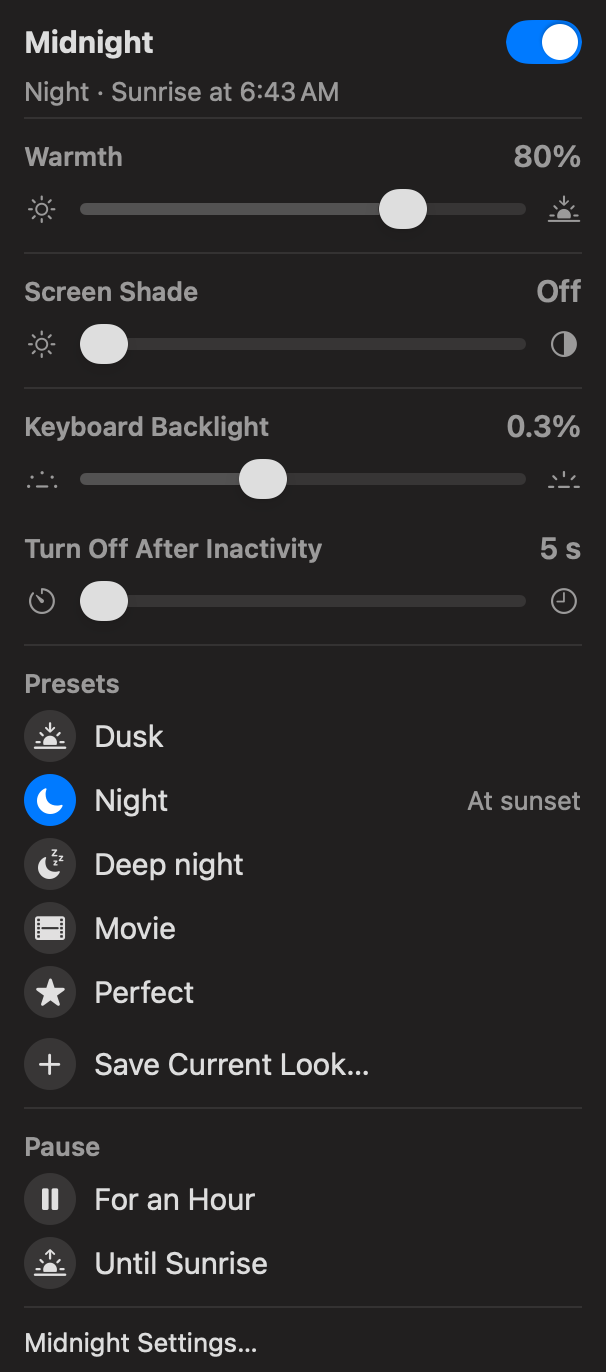
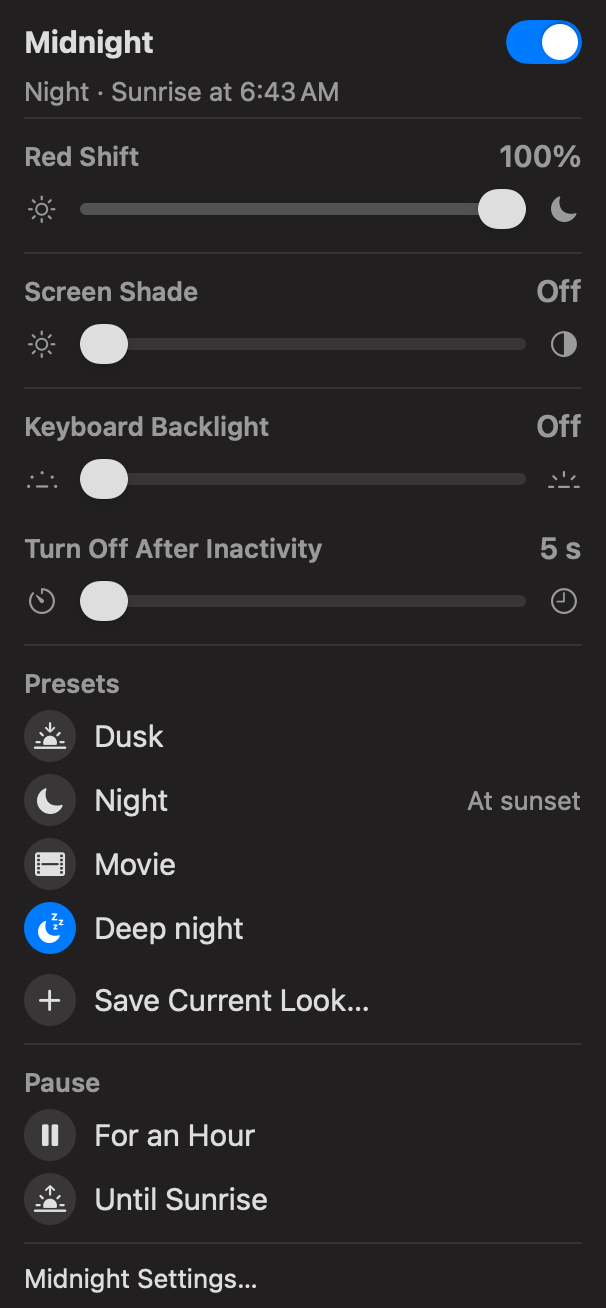
Red Shift; copy for the longevity crowd; new hero and panel renders

diff --git a/docs/index.html b/docs/index.html
@@ -4,9 +4,9 @@
 <meta charset="utf-8">
 <meta name="viewport" content="width=device-width, initial-scale=1">
 <title>Midnight — Zero blue light after dark, for Mac</title>
-<meta name="description" content="Midnight removes blue light from your Mac at sunset and restores it at sunrise. Zero blue at 60%, a keyboard backlight below the system floor, and it learns your nights. Free and open source.">
+<meta name="description" content="Blue light after sunset is the cheapest sleep loss you are still paying for. Midnight drives your Mac to zero blue at sunset and hands the day back at sunrise, in a panel indistinguishable from Control Center. Free, open source, on-device.">
 <meta property="og:title" content="Midnight — Zero blue. Sleep better.">
-<meta property="og:description" content="Take blue light out of your Mac at sunset. Not warmer. Gone. Free, open source, nothing leaves your Mac.">
+<meta property="og:description" content="Zero blue light after sunset. Deep reds in a panel that looks like Apple made it. Free, open source, on-device. The cheapest input in your sleep protocol.">
 <meta property="og:type" content="website">
 <meta property="og:url" content="https://ervinyoung.github.io/midnight/">
 <meta property="og:image" content="https://ervinyoung.github.io/midnight/img/panel.png">
@@ -133,12 +133,12 @@
 <header class="hero" id="product">
   <div class="wrap">
     <h1>Zero blue.<br><span class="grad">Sleep better.</span></h1>
-    <p class="sub">Midnight removes every bit of blue light from your Mac at sunset and gives it back at sunrise. Deep, true reds, in a panel that looks like Apple made it. Free.</p>
+    <p class="sub">Blue light after sunset is the cheapest sleep loss you are still paying for. Midnight drives your Mac to zero blue at sunset, holds deep, true reds through the night, and hands the day back at sunrise. In a panel that looks like Apple made it. Free.</p>
     <div class="ctas">
       <a class="btn white" href="https://github.com/ervinyoung/midnight#install"><svg viewBox="0 0 17 20" fill="currentColor"><path d="M14.1 10.6c0-2.7 2.2-3.9 2.3-4-1.3-1.8-3.2-2.1-3.9-2.1-1.7-.2-3.2 1-4.1 1-.8 0-2.1-1-3.5-.9C3.1 4.6 1.4 5.6.5 7.3c-1.9 3.3-.5 8.1 1.4 10.8.9 1.3 2 2.8 3.4 2.7 1.4-.1 1.9-.9 3.5-.9s2.1.9 3.5.9c1.5 0 2.4-1.3 3.3-2.7 1-1.5 1.5-3 1.5-3.1-.1 0-2.9-1.1-3-4.4zM11.4 2.7c.7-.9 1.2-2.1 1.1-3.3-1 0-2.3.7-3 1.6-.7.8-1.3 2-1.1 3.2 1.1.1 2.3-.6 3-1.5z"/></svg>Download for Mac</a>
       <a class="btn line" href="https://github.com/ervinyoung/midnight">View source</a>
     </div>
-    <div class="fine">Free and open source. Apple silicon, macOS 26 or later. No account. Nothing leaves your Mac.</div>
+    <div class="fine">Free and open source. Apple silicon, macOS 26 or later. No account, no telemetry. Runs entirely on your Mac.</div>
     <div class="shot" role="img" aria-label="Midnight open from the macOS menu bar: Warmth 80%, keyboard backlight 0.1%, presets and pause controls in a Control Center style panel">
       <div class="menubar">
         <div class="l"><b></b><span>Finder</span><span>File</span><span>Edit</span><span>View</span><span>Go</span><span>Window</span><span>Help</span></div>
@@ -159,17 +159,17 @@
 <section><div class="wrap">
   <div class="core">
     <div class="card native">
-      <div class="txt"><div class="k">Native</div><h3>Indistinguishable from Control Center.</h3><p>The same rows, the same sliders, the same glass, measured from Apple's own panels to the point. It lives in the menu bar and looks like it shipped with the Mac.</p></div>
+      <div class="txt"><div class="k">Native</div><h3>Indistinguishable from Control Center.</h3><p>Measured from Apple's own panels to the point: the same rows, sliders and glass. Nothing new to learn, nothing that looks bolted on. It's the panel that should have shipped with the Mac, one click from the menu bar.</p></div>
       <div class="frame"><img src="img/panel.png" alt="The Midnight panel: Warmth, Screen Shade, Keyboard Backlight and presets, in the style of Control Center"></div>
     </div>
     <div class="card">
       <div class="vis"><div class="ramp"><i></i><b>60% · blue at zero</b><small class="l">Off</small><small class="r">100%</small></div></div>
       <div style="height:34px"></div>
-      <div class="k">Deep reds</div><h3>Every blue subpixel, off.</h3><p>Blue isn't dimmed, it's driven to zero at the display's own transfer table, and text stays crisp. Past 60% the reds go deeper without collapsing into mush.</p>
+      <div class="k">Red Shift</div><h3>Every blue subpixel, off.</h3><p>Night Shift warms. Midnight removes. One dial: at 60% the blue channel is at zero at the display's own transfer table and text stays crisp. Past it, deeper reds without collapsing into mush.</p>
     </div>
     <div class="card free">
       <div class="vis"><div class="big">$0</div></div>
-      <div class="k">Free</div><h3>No account. No tier. No catch.</h3><p>Open source under MIT. Location is used on your Mac for sunrise and sunset and nothing leaves it.</p>
+      <div class="k">Free</div><h3>No account. No subscription. No telemetry.</h3><p>Open source under MIT, so audit every line. Location is read on your Mac for sunrise and sunset and never leaves it. The one input in your stack that costs nothing.</p>
     </div>
     <div class="card" style="grid-column:1 / -1">
       <div class="vis stats">
@@ -178,14 +178,14 @@
         <div><div class="n">0<small>%</small></div><div class="l">blue channel output at Midnight 60% and above</div></div>
       </div>
       <div style="height:26px"></div>
-      <div class="k">Sleep better</div><h3>Give melatonin its evening back.</h3><p>Evening screen light holds melatonin down and pushes your clock later. Midnight removes the signal at sunset and hands the day back at sunrise, every night, without you touching it.</p>
+      <div class="k">Sleep better</div><h3>Protect the melatonin you're already paying for.</h3><p>You track the sleep, time the caffeine, dim the house. Then a blue screen at 11 PM tells your retina it's noon. Midnight removes that signal at sunset, automatically, every night. Run it for two weeks and read your own deep sleep and latency. n = 1, like everything that works.</p>
       <div class="cite">Chang, Aeschbach, Duffy &amp; Czeisler, PNAS 2015. Midnight reduces evening blue light exposure; it is not a medical device.</div>
     </div>
   </div>
 </div></section>
 
 <footer><div class="wrap">
-  <span>Free · Open source, MIT · Nothing leaves your Mac</span>
+  <span>Free · Open source, MIT · On-device · Not a medical device</span>
   <span><a href="https://github.com/ervinyoung/midnight">GitHub</a> · <a href="https://github.com/ervinyoung/midnight/releases">Releases</a> · Made by <a href="https://github.com/ervinyoung">Ervin Young</a></span>
 </div></footer>
 

diff --git a/engine/midnight.swift b/engine/midnight.swift
@@ -397,7 +397,7 @@ func learn(cfg: Config, learned: Learned, state: inout State, now: Date) -> Lear
     }
     if let v = settledNightValue("warmth", tol: 0.1) {
         let cur = learned.nightWarmth ?? cfg.night.warmth ?? 0
-        if abs(v - cur) > 0.05 { new.nightWarmth = v; notes.append(String(format: "night warmth %.0f%%", v * 100)) }
+        if abs(v - cur) > 0.05 { new.nightWarmth = v; notes.append(String(format: "night red shift %.0f%%", v * 100)) }
     }
     if let v = settledNightValue("keyboardBrightness", tol: 0.05) {
         let cur = learned.nightKeyboardBrightness ?? cfg.night.keyboardBrightness ?? 0
@@ -691,7 +691,7 @@ case "status":
     print(String(format: "location: %.3f, %.3f (%@)   fade: %.0f min", cfg.latitude, cfg.longitude, cfg.locationSource ?? "unknown", fadeMinutes))
 case "learned":
     print("sunset offset: \(Int(learned.sunsetOffsetMinutes)) min   sunrise offset: \(Int(learned.sunriseOffsetMinutes)) min")
-    if let v = learned.nightWarmth { print(String(format: "night warmth: %.0f%%", v * 100)) }
+    if let v = learned.nightWarmth { print(String(format: "night red shift: %.0f%%", v * 100)) }
     if let v = learned.nightKeyboardBrightness { print(String(format: "night keyboard brightness: %.3f", v)) }
     if let v = learned.nightIdleDimSeconds { print("night idle-off: \(Int(v))s") }
     if let v = learned.nightShadeLevel { print(String(format: "night screen shade: %.0f%%", v * 100)) }

diff --git a/app/MidnightApp.swift b/app/MidnightApp.swift
@@ -576,8 +576,8 @@ struct Panel: View {
                 SwitchView(isOn: Binding(get: { m.agentRunning }, set: { m.setAgent($0) }), drawn: m.snapshotMode)
             }
 
-            Header(text: "Warmth", value: (m.live.warmth ?? 0) > 0.001 ? fmtPct(m.live.warmth) : "Off")
-            SliderRow(minIcon: "sun.max", maxIcon: "sunset.fill", steps: warmSteps, current: m.live.warmth, isOn: (m.live.warmth ?? 0) > 0.001) { s, final in
+            Header(text: "Red Shift", value: (m.live.warmth ?? 0) > 0.001 ? fmtPct(m.live.warmth) : "Off")
+            SliderRow(minIcon: "sun.max", maxIcon: "moon.fill", steps: warmSteps, current: m.live.warmth, isOn: (m.live.warmth ?? 0) > 0.001) { s, final in
                 m.setWarmth(s.value ?? 0, final: final) }
             SectionEnd()
 
@@ -627,7 +627,7 @@ struct Panel: View {
         .padding(.horizontal, CC.side)
     }
     var subtitle: String {
-        if m.isPaused, let u = m.state?.pausedUntil {
+        if m.isPaused && !m.snapshotMode, let u = m.state?.pausedUntil {
             let f = DateFormatter(); f.timeStyle = .short; return "Paused until \(f.string(from: u))"
         }
         guard m.agentRunning else { return "Manual" }

diff --git a/README.md b/README.md
@@ -3,8 +3,10 @@
 </p>
 
 # Midnight
-Warm light after dark. Midnight eases your Mac into a low-blue-light look at sunset and back at sunrise,
-dims the keyboard further than the slider allows, and quietly learns what you keep choosing.
+Zero blue light after sunset, on your Mac. Blue light after dark is the cheapest sleep loss you are still paying for:
+it holds melatonin down and pushes your clock later. Midnight drives the display's blue channel to zero at sunset,
+holds deep, true reds through the night, dims the keyboard below the system floor, and hands the day back at sunrise.
+In a panel indistinguishable from Control Center. Free, open source, on-device, and it learns what you keep choosing.
 
 Site: https://ervinyoung.github.io/midnight
 
@@ -38,14 +40,14 @@ Make a shortcut once:
     midnight curve               print the warmth curve
 `sunmode` still works as an alias of `midnight`.
 
-## Warmth: one slider, two mechanisms
+## Red Shift: one slider, two mechanisms
 Two ways to cut blue light have opposite strengths. Scaling the display's blue and green channels at the
 gamma table (what Night Shift and f.lux do) physically removes blue while every pixel keeps its brightness
 ordering, so text stays crisp — but it cannot go "beyond zero", and content that lives only in a removed
 channel goes dark. Apple's Color Tint filter maps each pixel to its luminance and mixes toward red: nothing
 disappears, but hue collapses, and at high intensity everything is the same red blob.
 
-Midnight's Warmth uses each where it is best:
+Midnight's Red Shift (`warmth` in the config and CLI) uses each where it is best:
     0–60 %    channel scaling only: blue 100 % → 0, green trimmed to 60 %. Maximum legibility.
     60–100 %  blue stays at zero; green eases to 35 % while a modest luminance-preserving tint (up to 50 %)
               folds the removed green back into red brightness instead of letting it fade to black.
